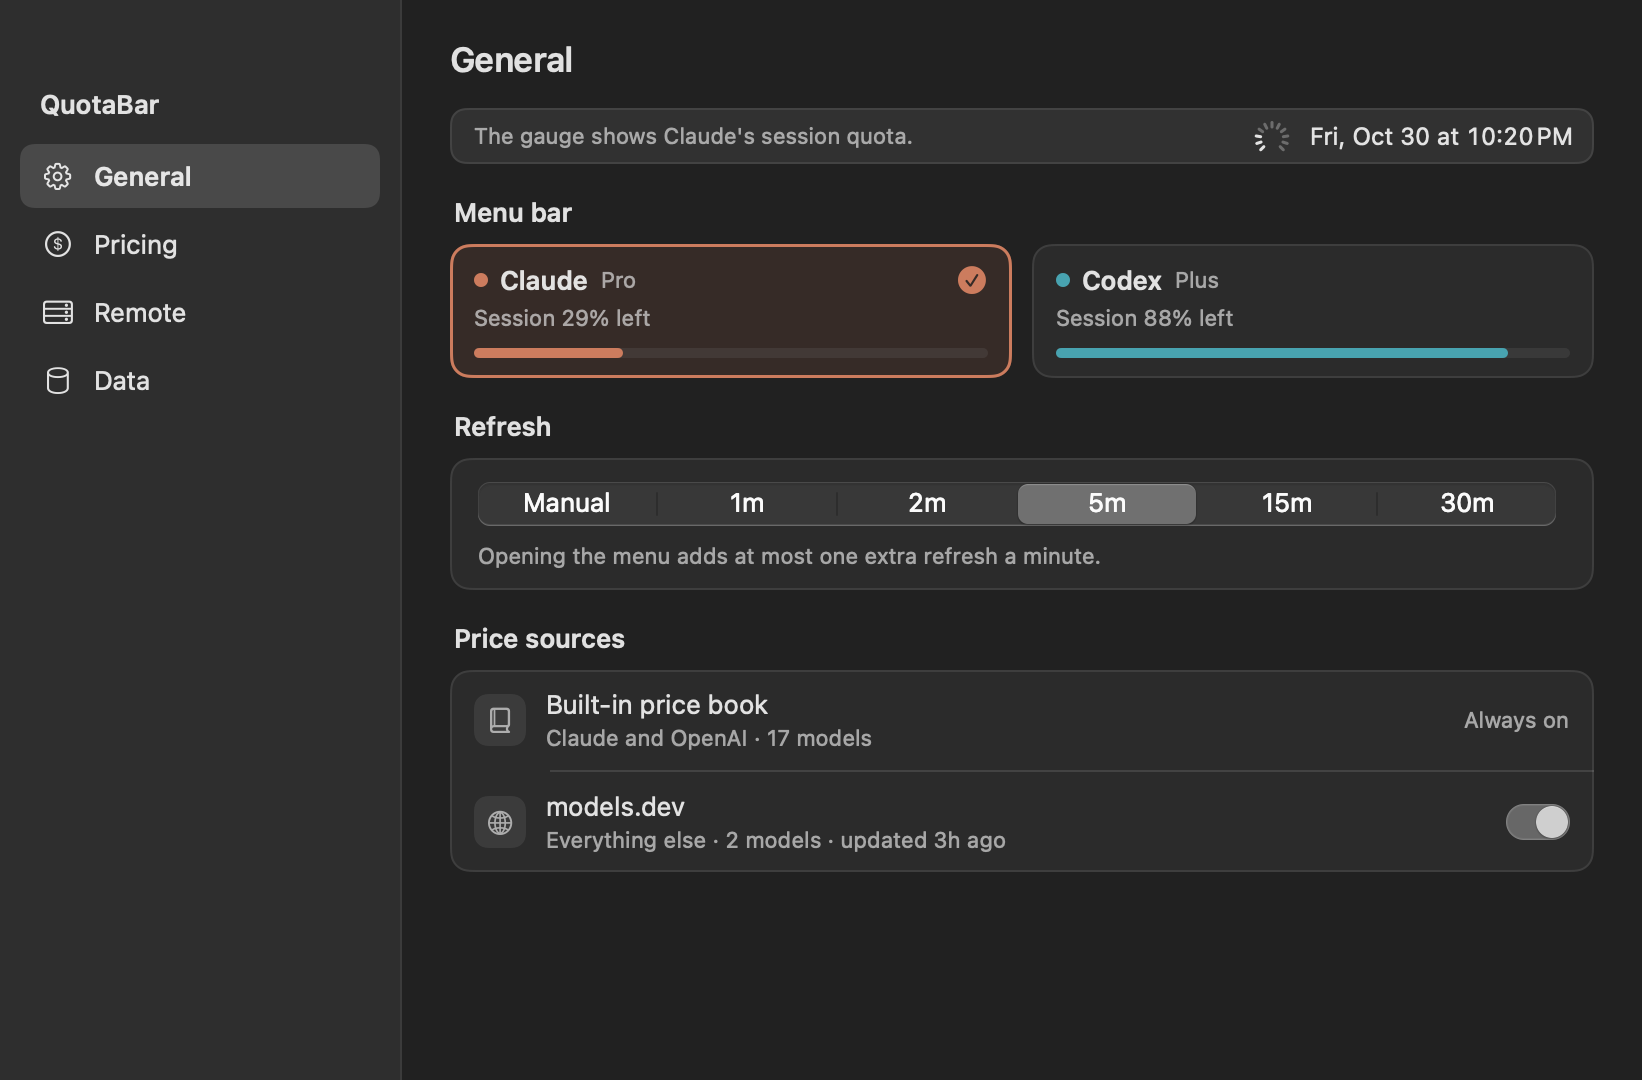
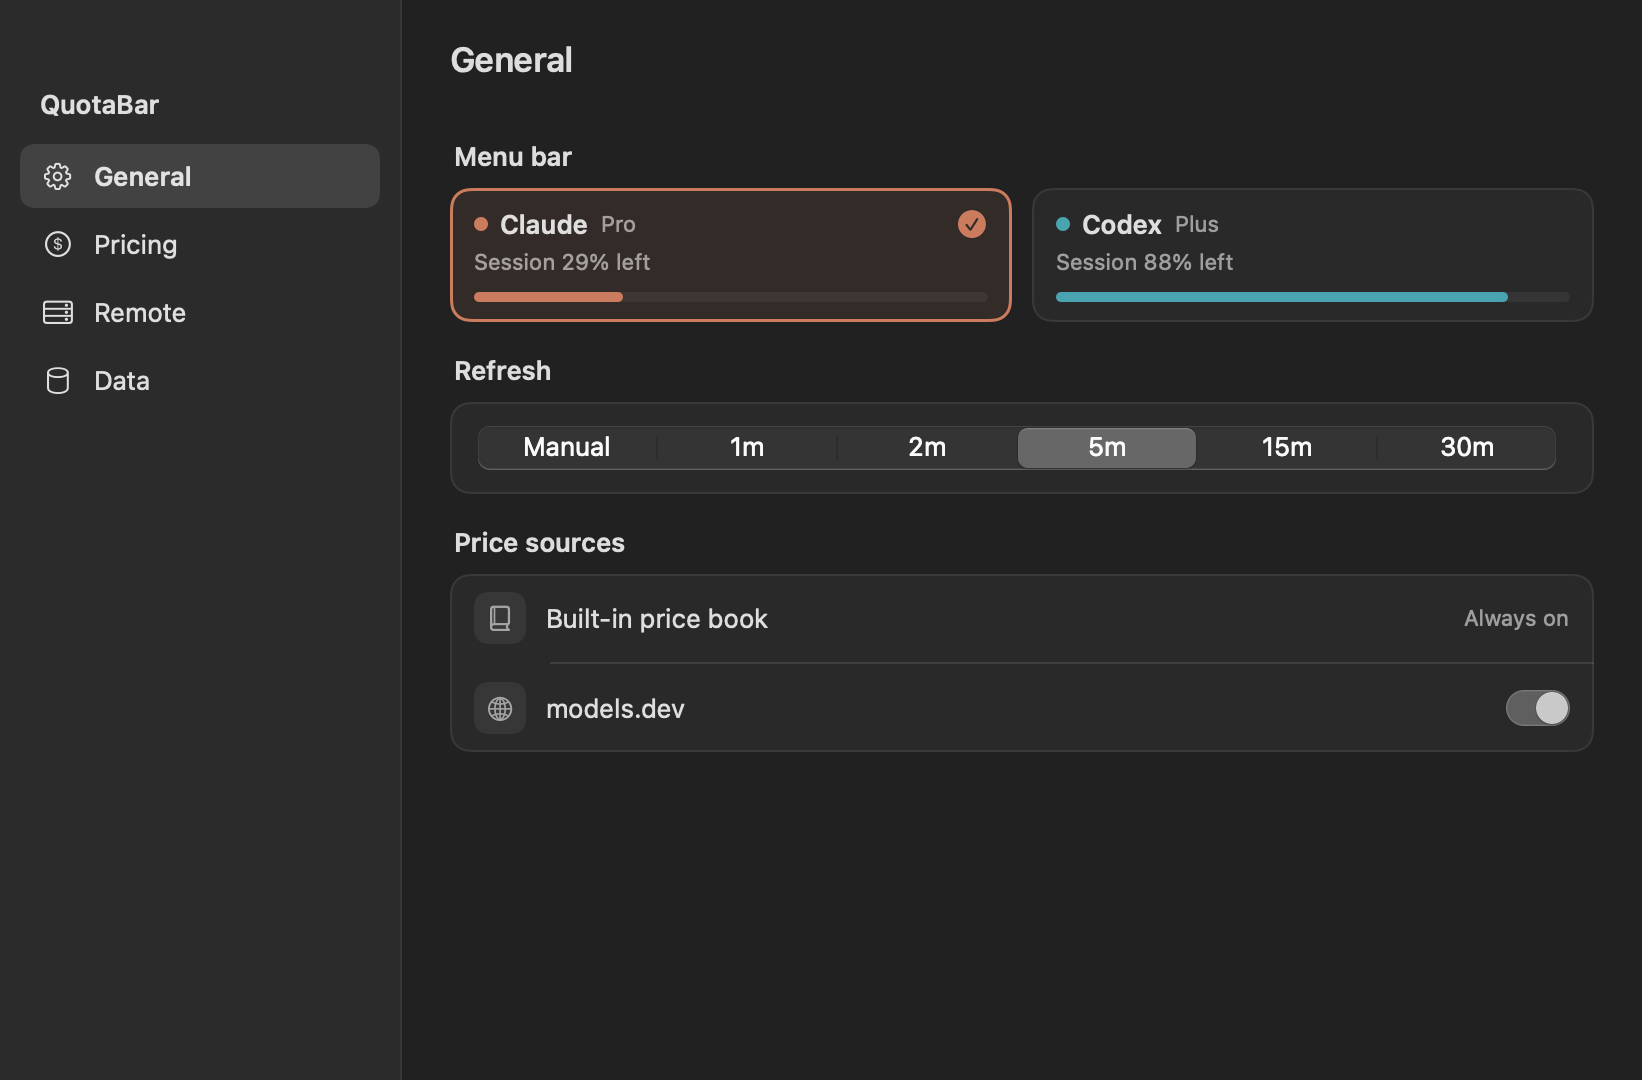
feat(settings): remove the small notes and the menu bar preview (#49)
## Summary

General and Remote lose their small notes, and General loses the menu
bar preview at its top. The orange rate-limit warning for 1m and 2m
stays.

```diff
 <GeneralSettingsView>
-  <MenuBarPreview>                    # status item, date, "The gauge shows…"
   Menu bar
   Refresh
     Picker
-    "Opening the menu adds…"          # and the Manual hint
+    rate-limit warning                # 1m and 2m only
   Price sources
     Built-in price book
-      "Claude and OpenAI · 17 models"
     models.dev
-      "Everything else · 1672 models · updated 11h ago"   # and its off / not downloaded text

 <RemoteSettingsView>
   Sync automatically
-    "Every 15 minutes…" / "Only when you press Sync now"
```

With no notes left, `SettingsRow.detail` has no callers. General also
stops reading the price sources, so its `pricing` and `reload` inputs
and the model counts go. `PricingTableModel.load()` still rereads rates
each time the Pricing pane comes into view, which covers a models.dev
toggle made in General.

## Evidence

- **Before:**

<img
src="https://github.com/softmaxe/quota-bar/blob/738c8dc/docs/images/settings-general.png?raw=true"
width="500" alt="General pane with the preview and notes">

  **After:** rendered with `--dump-settings`

<img
src="https://github.com/softmaxe/quota-bar/blob/a65c6bb/docs/images/settings-general.png?raw=true"
width="500" alt="General pane without the preview and notes">

- `make test`: 1230 checks passed.

## Merge Danger
[…]

diff --git a/Sources/QuotaBarApp/SettingsView.swift b/Sources/QuotaBarApp/SettingsView.swift
@@ -8,7 +8,7 @@ final class SettingsSelection: ObservableObject {
     /// Bumped whenever the pricing pane comes into view, so it rereads rates that a models.dev
     /// download or the General toggle changed while it sat mounted behind another pane.
     @Published var pricingReloads = 0
-    /// Bumped whenever the window is shown, so General rereads what the price sources cover.
+    /// Bumped whenever the window is shown, so the open pane rereads what it shows.
     @Published var windowShows = 0
 }
 
@@ -63,9 +63,7 @@ struct SettingsView: View {
             self.pane(.general) {
                 GeneralSettingsView(
                     settings: self.settings,
-                    pricing: self.pricing,
-                    store: self.store,
-                    reload: self.selection.windowShows
+                    store: self.store
                 )
             }
             self.pane(.pricing) {
@@ -107,25 +105,16 @@ struct SettingsView: View {
     }
 }
 
-/// General shows each choice as what it changes: the menu bar item as it is drawn now, each
-/// provider with its live quota, the refresh cadences with a warning for the risky ones, and the
-/// price sources with what each one covers.
+/// General shows each choice as what it changes: each provider with its live quota, the refresh
+/// cadences with a warning for the risky ones, and the price sources.
 struct GeneralSettingsView: View {
     @ObservedObject var settings: SettingsStore
-    @ObservedObject var pricing: PricingTableModel
     @ObservedObject var store: UsageStore
-    /// Changes whenever the window is shown, which rereads the price sources.
-    var reload = 0
 
     @Environment(\.accessibilityReduceMotion) private var reduceMotion
 
     var body: some View {
         SettingsPane("General") {
-            MenuBarPreview(
-                provider: self.settings.menuBarProvider,
-                display: self.display(self.settings.menuBarProvider)
-            )
-
             SettingsSectionTitle("Menu bar")
             HStack(spacing: 10) {
                 ForEach(Provider.allCases, id: \.self) { provider in
@@ -150,22 +139,25 @@ struct GeneralSettingsView: View {
                 }
                 .pickerStyle(.segmented)
                 .labelsHidden()
-                Text(self.refreshHint)
+                if self.settings.refreshFrequency.risksRateLimit {
+                    Text(
+                        "The quota endpoints are shared with the Codex and Claude CLIs. "
+                            + "Polling this often can get you rate-limited."
+                    )
                     .font(.system(size: 11))
-                    .foregroundStyle(self.settings.refreshFrequency.risksRateLimit ? Color.orange : Color.secondary)
+                    .foregroundStyle(Color.orange)
                     .fixedSize(horizontal: false, vertical: true)
+                }
             }
             .padding(.horizontal, 14)
-            .padding(.top, 12)
-            .padding(.bottom, 10)
+            .padding(.vertical, 12)
             .settingsGroup()
 
             SettingsSectionTitle("Price sources")
             VStack(spacing: 0) {
                 SettingsRow(
                     symbol: "book.closed",
-                    title: "Built-in price book",
-                    detail: "Claude and OpenAI · \(self.pricing.priceBookModelCount) models"
+                    title: "Built-in price book"
                 ) {
                     Text("Always on")
                         .font(.system(size: 11))
@@ -174,8 +166,7 @@ struct GeneralSettingsView: View {
                 Divider().padding(.leading, 50)
                 SettingsRow(
                     symbol: "globe",
-                    title: "models.dev",
-                    detail: self.modelsDevDetail
+                    title: "models.dev"
                 ) {
                     Toggle("Price other models with models.dev", isOn: self.$settings.modelsDevPricing)
                         .toggleStyle(.switch)
@@ -185,36 +176,10 @@ struct GeneralSettingsView: View {
             }
             .settingsGroup()
         }
-        .task(id: [self.reload, self.settings.modelsDevPricing ? 1 : 0]) {
-            self.pricing.loadSources()
-        }
     }
 
     private func display(_ provider: Provider) -> ProviderDisplay {
         self.store.displays[provider] ?? ProviderDisplay()
-    }
-
-    private var modelsDevDetail: String {
-        guard self.settings.modelsDevPricing else {
-            return "Off: models outside the price book stay unpriced"
-        }
-        guard let fetchedAt = self.pricing.modelsDevFetchedAt else {
-            return "Everything else · not downloaded yet"
-        }
-        return "Everything else · \(self.pricing.modelsDevModelCount) models · "
-            + "updated \(Formatters.relativeAge(since: fetchedAt))"
-    }
-
-    private var refreshHint: String {
-        switch self.settings.refreshFrequency {
-        case .manual:
-            "Only refreshes when you open a menu or press ⌘R."
-        case .oneMinute, .twoMinutes:
-            "The quota endpoints are shared with the Codex and Claude CLIs. "
-                + "Polling this often can get you rate-limited."
-        default:
-            "Opening the menu adds at most one extra refresh a minute."
-        }
     }
 }
 
@@ -295,11 +260,10 @@ struct SettingsSectionTitle: View {
     }
 }
 
-/// One line of a settings section: what it is, a line about it, and its control.
+/// One line of a settings section: what it is and its control.
 struct SettingsRow<Trailing: View>: View {
     let symbol: String
     let title: String
-    var detail: String?
     @ViewBuilder let trailing: () -> Trailing
 
     var body: some View {
@@ -312,16 +276,8 @@ struct SettingsRow<Trailing: View>: View {
                     RoundedRectangle(cornerRadius: 7, style: .continuous)
                         .fill(Color.primary.opacity(0.08))
                 )
-            VStack(alignment: .leading, spacing: 2) {
-                Text(self.title)
-                    .font(.system(size: 13))
-                if let detail = self.detail {
-                    Text(detail)
-                        .font(.system(size: 11))
-                        .foregroundStyle(.secondary)
-                        .lineLimit(1)
-                }
-            }
+            Text(self.title)
+                .font(.system(size: 13))
             Spacer(minLength: 8)
             self.trailing()
         }
@@ -341,61 +297,6 @@ extension View {
             RoundedRectangle(cornerRadius: 10, style: .continuous)
                 .strokeBorder(Color.primary.opacity(0.09), lineWidth: 1)
         )
-    }
-}
-
-/// A slice of the menu bar with the status item drawn the way it is drawn now, so the provider
-/// choice below reads as what it changes. The gauge carries no numbers, so the caption says
-/// which quota it shows.
-struct MenuBarPreview: View {
-    let provider: Provider
-    let display: ProviderDisplay
-
-    var body: some View {
-        TimelineView(.everyMinute) { context in
-            HStack(spacing: 10) {
-                Text(self.caption)
-                    .font(.system(size: 11))
-                    .foregroundStyle(.secondary)
-                    .lineLimit(1)
-                Spacer(minLength: 8)
-                Image(nsImage: self.icon(now: context.date))
-                    .foregroundStyle(.primary)
-                Text(context.date, format: .dateTime.weekday(.abbreviated).month(.abbreviated).day()
-                    .hour().minute())
-                    .font(.system(size: 12))
-                    .monospacedDigit()
-            }
-            .padding(.leading, 12)
-            .padding(.trailing, 10)
-            .frame(height: 28)
-            .background(
-                RoundedRectangle(cornerRadius: 8, style: .continuous)
-                    .fill(Color.primary.opacity(0.07))
-            )
-            .overlay(
-                RoundedRectangle(cornerRadius: 8, style: .continuous)
-                    .strokeBorder(Color.primary.opacity(0.09), lineWidth: 1)
-            )
-        }
-        .accessibilityElement(children: .ignore)
-        .accessibilityLabel("Menu bar preview: \(self.caption)")
-    }
-
-    /// The same icon the status item draws for this provider, from the same cache.
-    private func icon(now: Date) -> NSImage {
-        IconRenderer.makeIcon(
-            remainingPercent: self.display.snapshot.flatMap { MenuBarProviderPolicy.gaugeRemaining($0, now: now) },
-            stale: self.display.isStale
-        )
-    }
-
-    private var caption: String {
-        let name = self.provider.displayName
-        if self.display.isSignedOut { return "\(name) is not signed in, so the gauge is faded." }
-        if self.display.isStale { return "The last \(name) refresh failed, so the gauge is dimmed." }
-        let usesWeekly = self.display.snapshot?.session == nil && self.display.snapshot?.weekly != nil
-        return "The gauge shows \(name)'s \(usesWeekly ? "weekly" : "session") quota."
     }
 }
 

diff --git a/Sources/QuotaBarApp/PricingTableModel.swift b/Sources/QuotaBarApp/PricingTableModel.swift
@@ -213,10 +213,6 @@ final class PricingTableModel: ObservableObject {
     /// When models.dev was last read, and whether pricing from it is on, for the footer.
     @Published private(set) var modelsDevFetchedAt: Date?
     @Published private(set) var modelsDevEnabled = true
-    /// How many models each source prices, for the source list in General. The models.dev count
-    /// is the cached catalog's, so it still reads while that source is switched off.
-    @Published private(set) var priceBookModelCount = 0
-    @Published private(set) var modelsDevModelCount = 0
     /// The row open in the table, nil when none is. Kept here rather than in the view so it
     /// survives a reload of the rates and a headless dump can pick one.
     @Published var selectedRowID: String?
@@ -258,17 +254,6 @@ final class PricingTableModel: ObservableObject {
 
     /// Fills the table from the price book, the third-party rates, and the local scan cache.
     func load() async {
-        self.loadSources()
-        await self.readUsage()
-        guard self.fixtures == nil else { return }
-        self.scanStatusMessages = await self.costService.currentScanStatuses().compactMap {
-            $0.status.message(agent: $0.source.displayName)
-        }
-    }
-
-    /// Rereads the rates and what each source covers, without touching the usage database, so
-    /// General can describe the sources without paying for the pricing list.
-    func loadSources() {
         let cached: ThirdPartyRates
         if let fixtures = self.fixtures {
             self.rateCard = fixtures.rateCard
@@ -280,9 +265,10 @@ final class PricingTableModel: ObservableObject {
             self.modelsDevEnabled = modelsDev.enabled
         }
         self.modelsDevFetchedAt = cached.fetchedAt
-        self.modelsDevModelCount = cached.models.count
-        self.priceBookModelCount = Provider.allCases.reduce(0) {
-            $0 + self.rateCard.settingsModels(for: $1).count
+        await self.readUsage()
+        guard self.fixtures == nil else { return }
+        self.scanStatusMessages = await self.costService.currentScanStatuses().compactMap {
+            $0.status.message(agent: $0.source.displayName)
         }
     }
 

diff --git a/Sources/QuotaBarApp/RemoteSettingsView.swift b/Sources/QuotaBarApp/RemoteSettingsView.swift
@@ -38,10 +38,7 @@ struct RemoteSettingsView: View {
 
             SettingsRow(
                 symbol: "clock.arrow.circlepath",
-                title: "Sync automatically",
-                detail: self.settings.remoteAutoSync
-                    ? "Every 15 minutes and when QuotaBar starts"
-                    : "Only when you press Sync now"
+                title: "Sync automatically"
             ) {
                 Toggle("Sync automatically", isOn: self.$settings.remoteAutoSync)
                     .toggleStyle(.switch)
